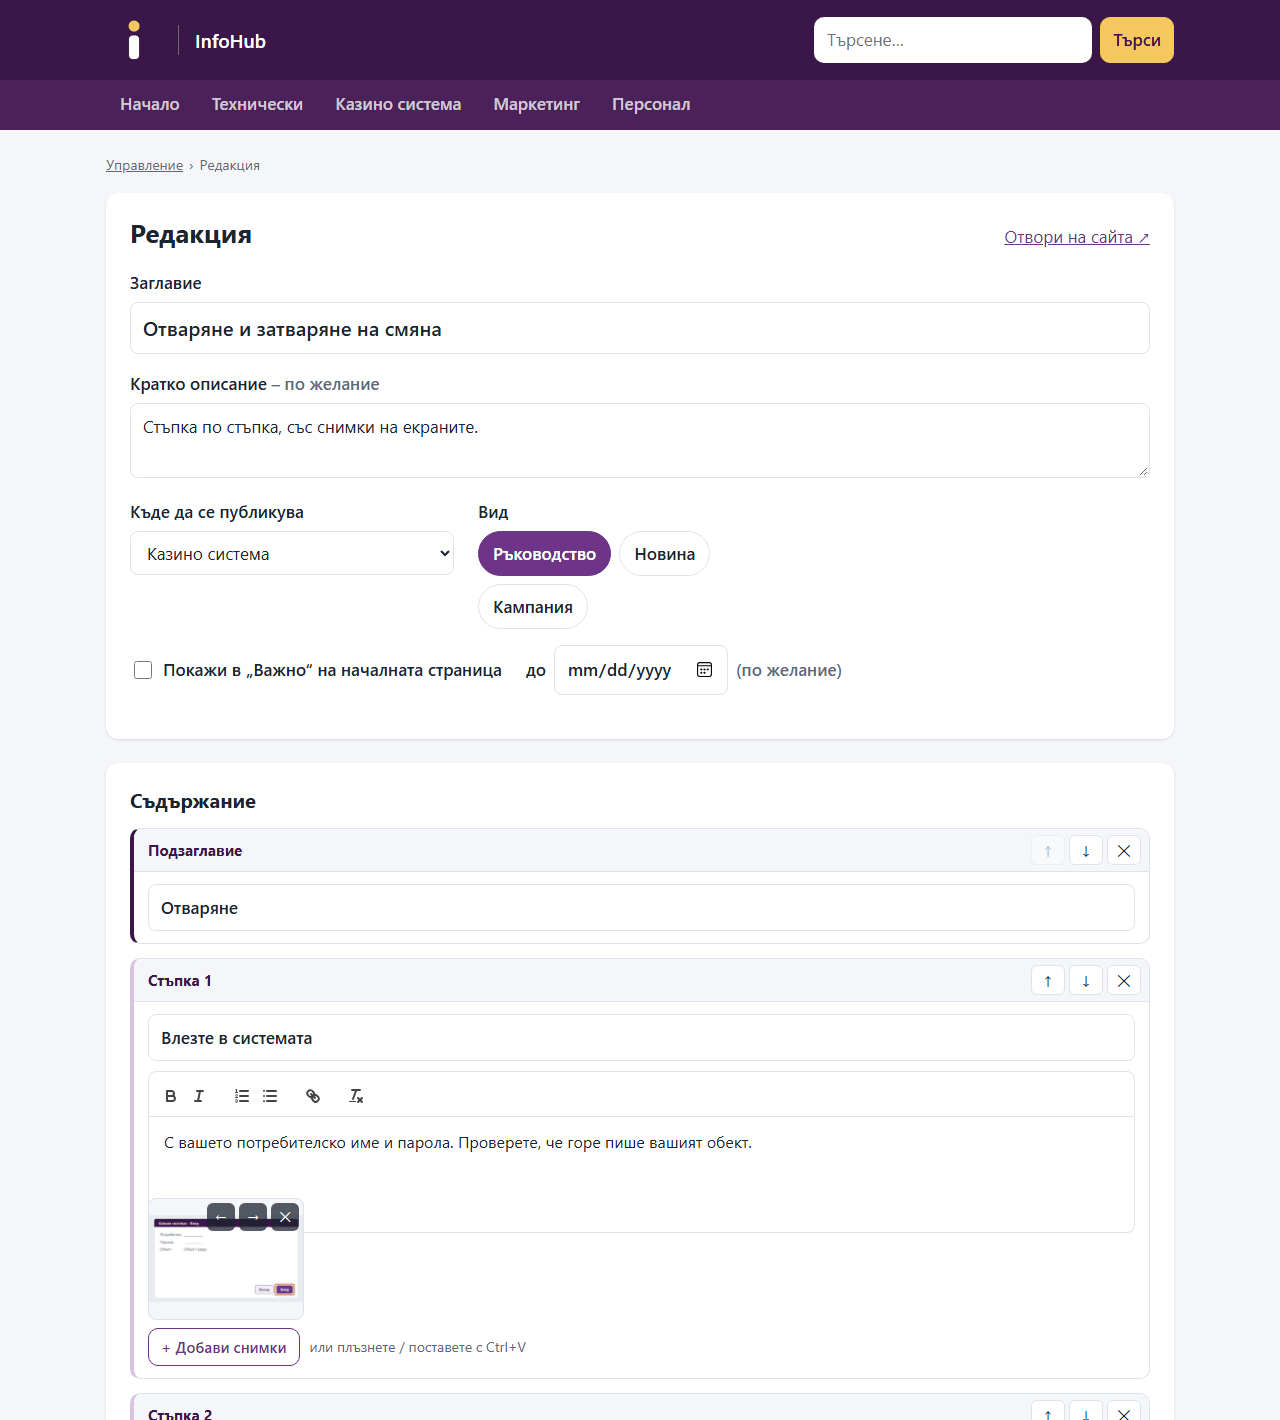
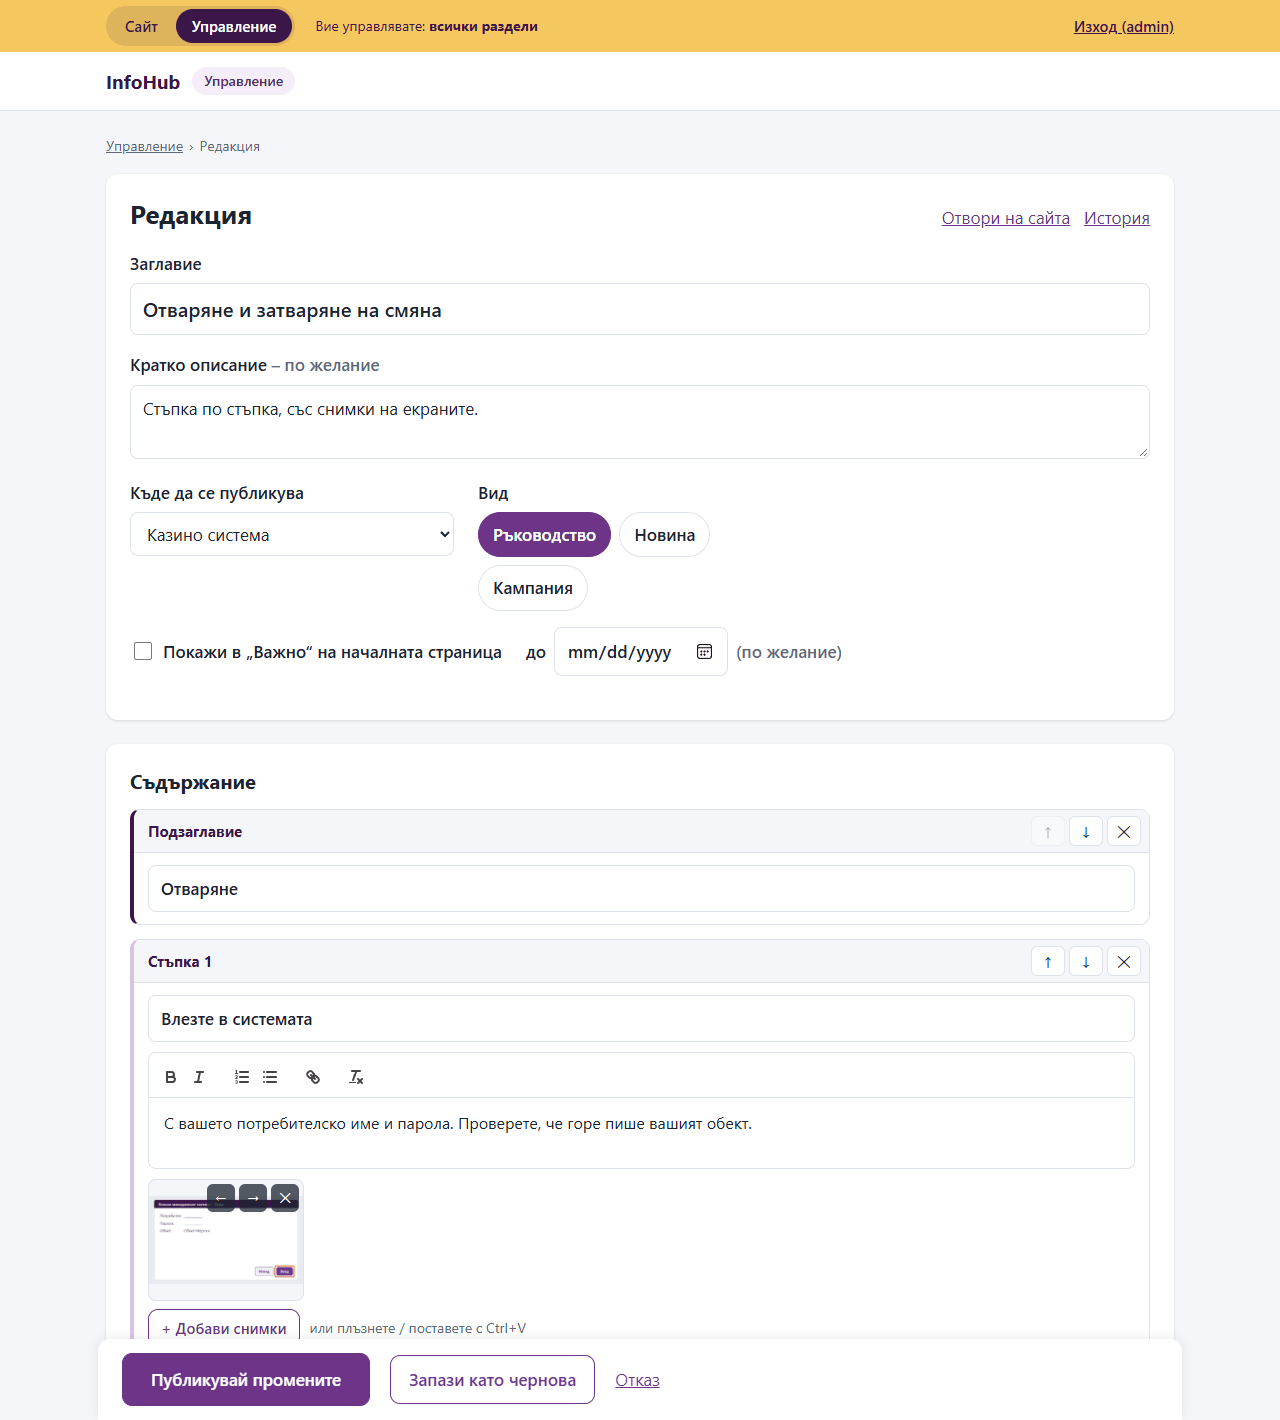
README: new screenshots with the „Сайт | Управление“ bar, „Виж като обект“, current test numbers
Screenshots taken from a separate demo copy with fictional venues and a neutral logo.

diff --git a/README.md b/README.md
@@ -25,12 +25,13 @@ copy with fictional venues and content.
 **For the departments** (editors of IT, the casino management system, Marketing, HR)
 - A block editor in the browser: numbered steps with several pictures and files each, text, subheadings, images, videos, notes and files. Screenshots can be pasted straight from the clipboard (Ctrl+V) or dragged in; every file uploads on its own with a progress bar.
 - **Who sees it:** all venues, the staff of chosen venues (their managers included), or only the managers of chosen venues, picked in one table with a live summary.
-- Drafts with a preview, an autosaved copy in the browser offered back after a crash, **„Виж като обект“** (the site exactly as a chosen venue account sees it, recording nothing), archive instead of delete, and **„Прочитания“**: which venue has opened and confirmed a post, and who has not yet.
+- A gold bar with two tabs, **„Сайт | Управление“**, always shows editors whether they are looking at the site or at the publishing panel; the panel has its own header.
+- Drafts with a preview, an autosaved copy in the browser offered back after a crash, **„Виж като обект“** (the site exactly as a chosen venue account sees it, under a red bar, recording nothing), archive instead of delete, and **„Прочитания“**: which venue has opened and confirmed a post, and who has not yet.
 - **History** of every post: who saved, published, archived or deleted what, and any earlier version can be previewed and brought back.
 - Statistics per venue: views, helpful / not helpful with the staff's reasons, searches with no result (= what is missing), and venues that do not use the site.
 
 **For the administrator**
-- Sections (departments), venues and every account in one panel; ↑ ↓ ordering of the sections.
+- Sections (departments), venues, every account and the site settings (name, logo, footer) in one panel; ↑ ↓ ordering of the sections.
 - A printable sheet with new random passwords for every venue (one venue per page).
 - Stopping a venue logs out all its PCs at once; nightly cleanup of unused uploads and old data.
 
@@ -42,6 +43,10 @@ copy with fictional venues and content.
 | **The publishing panel** | **Statistics per venue** |
 | ![List of posts with audience, status and read counts](docs/screenshots/posts.png) | ![Searches without result, usage per venue, most read posts](docs/screenshots/stats.png) |
 
+**„Виж като обект“:** an editor sees a post exactly as one venue's manager does; nothing is recorded and every button is off.
+
+![The site seen as a chosen venue account, under a red bar](docs/screenshots/viewas.png)
+
 <p align="center"><img src="docs/screenshots/mobile.png" width="520" alt="Home page and a guide on a phone"></p>
 
 ## Engineering highlights
@@ -49,6 +54,7 @@ copy with fictional venues and content.
 - **One visibility rule for everything.** `guides/audience.py` builds the queryset filter for a venue and role; lists, search, guide pages, feedback, statistics, „frequent searches“ and **media files** all use it, so a manager-only post can't leak through a side door. The audience is stored as one mode plus a venue list, which makes invalid mixes impossible in the data, not only in the UI.
 - **Protected media.** Every picture, video and document is served only after a login and audience check, with HTTP range requests for video seeking; behind nginx the file transfer is handed off via `X-Accel-Redirect`.
 - **Safe rich text.** The editor's HTML goes through Wagtail's own whitelist converter before it is stored as StreamField blocks; hostile input (`<script>`, `onerror`, `javascript:` links) is covered by tests on every page that shows it.
+- **Viewing as a venue without its password.** A middleware swaps in the chosen venue account for site pages only, so every list, search, label and file goes through the same visibility rule; anything that would write (views, votes, read receipts, any POST) is refused while looking, and the panel, previews and file thumbnails keep the editor's own rights. The whole visibility test suite is run a second time through this path.
 - **Security hardening.** Login required everywhere (`LoginRequiredMiddleware`), a login throttle that counts the real visitor address behind the proxy, read-only accounts that cannot change or reset passwords, no public admin login (Wagtail's admin closed, one back office), a Content-Security-Policy that runs only the site's own scripts, safe redirects, `noindex`, pages not kept by the browser after logout, forms sent only once, a button pressed after the session ended returns to its page after login, secure cookies and HSTS in production, dependencies checked with `pip-audit`.
 - **Bulgarian-aware search and checks.** SQLite folds the case of Latin letters only, so search uses a stored lower-case text and name checks compare in Python (`casefold`).
 - **Publishing on top of Wagtail revisions.** Drafts, previews and „archive“ are Wagtail revisions and publish states; the panel keeps the list view right for drafts and archived posts.
@@ -61,9 +67,10 @@ copy with fictional venues and content.
 python manage.py test
 ```
 
-- **165 tests** on a separate test database: access per role, visibility per venue and role, the editor and uploads, every error message, the panel, settings, moving a site, and edge cases such as hostile input, open redirects, odd search input and unknown ids.
-- **92 browser checks** of the JavaScript (editor, audience picker, user form) in jsdom on freshly rendered pages, run from the same command.
-- **98 % line coverage**; `pyflakes` and dead-code scans clean; no known vulnerabilities in the dependencies.
+- **298 tests** on a separate test database: access per role, visibility per venue and role (also through „Виж като обект“), the editor and uploads, every error message, the panel, settings, the security policy, moving a site, and edge cases such as hostile input, open redirects, odd search input and unknown ids.
+- **171 browser checks** of the JavaScript (editor and its autosave, audience picker, user form, login page, site scripts) in jsdom on freshly rendered pages, run from the same command.
+- **99 % line coverage**; `pyflakes` and dead-code scans clean; no known vulnerabilities in the dependencies; a read-only `check_site` command audits a live database (integrity, files on disk, and every venue account × post against an independent copy of the rule).
+- Every release is also clicked through in a real browser (Playwright + Edge) on a copy of the data: about 90 pages per role with no script errors or policy blocks.
 
 Details: [tests/README.md](tests/README.md).
 
